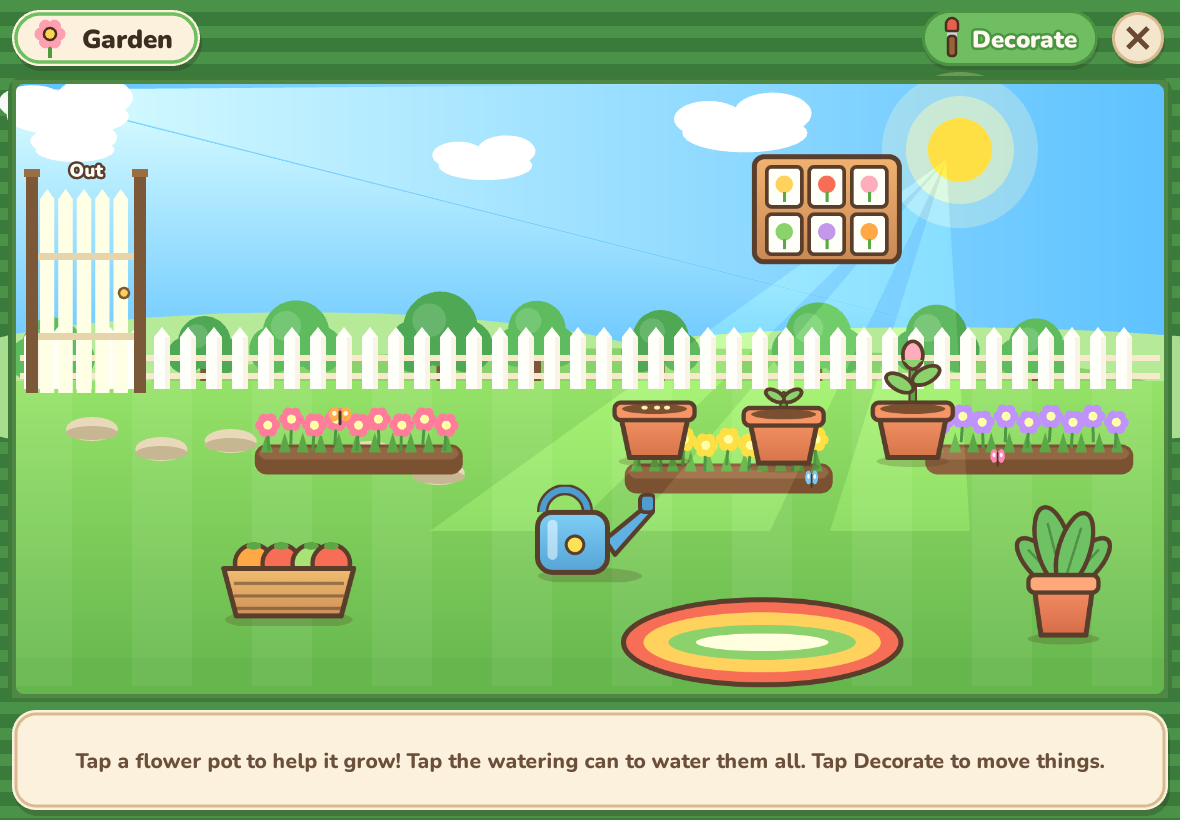
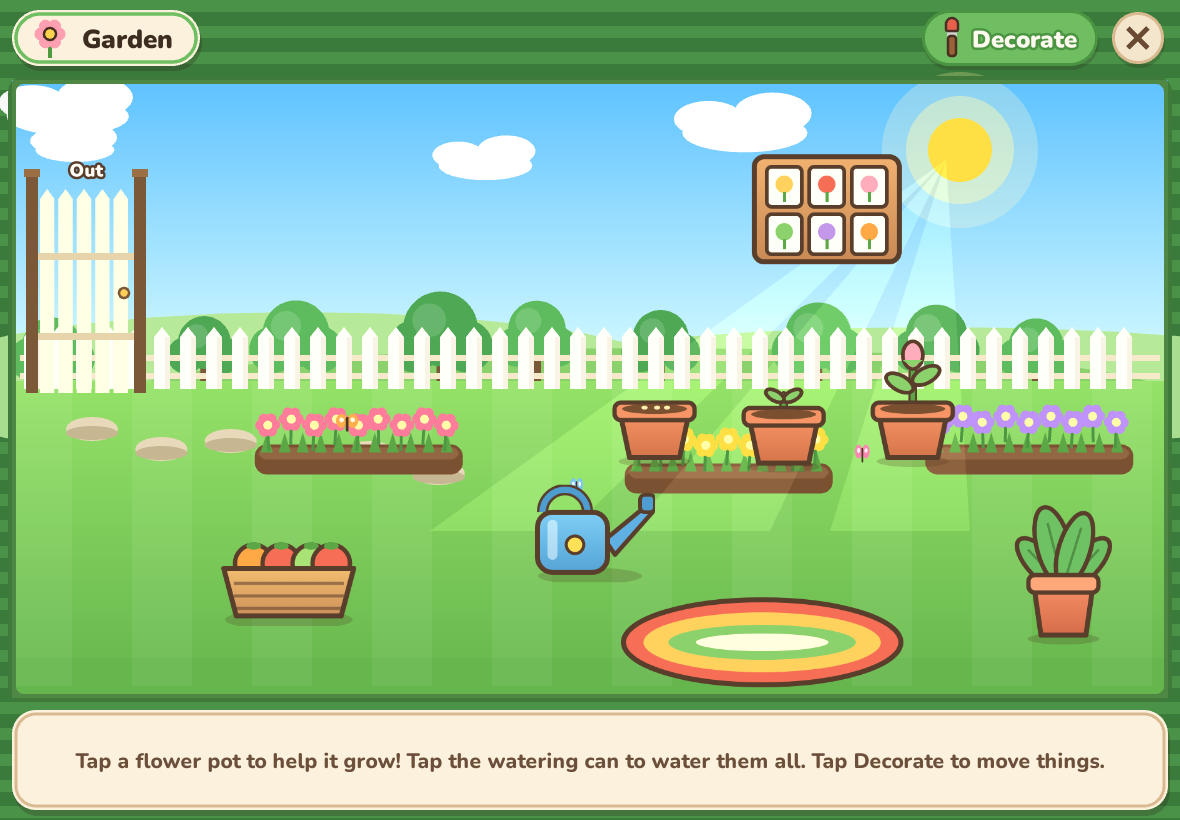
12.6: garden sky without gradient seam

diff --git a/src/interior/art.ts b/src/interior/art.ts
@@ -341,7 +341,7 @@ function garden(s: Phaser.Scene, r: Rect, ft: number, lampOn: boolean): RoomArt 
   const g = s.add.graphics().setDepth(0);
   const hz = ft - 8; // horizon (the fence line)
   // Sky.
-  g.fillGradientStyle(0x4fb4ff, 0x4fb4ff, 0xcdf0ff, 0xcdf0ff, 1); g.fillRoundedRect(r.x, r.y, r.w, hz - r.y + 4, { tl: rad, tr: rad, bl: 0, br: 0 });
+  g.fillGradientStyle(0x4fb4ff, 0x4fb4ff, 0xcdf0ff, 0xcdf0ff, 1); g.fillRect(r.x, r.y, r.w, hz - r.y + 4);
   // Sun with soft halo.
   const sx = r.x + r.w * 0.82, sy = r.y + 70;
   g.fillStyle(0xfff2a0, 0.25); g.fillCircle(sx, sy, 78); g.fillStyle(0xfff2a0, 0.4); g.fillCircle(sx, sy, 54); g.fillStyle(0xffd23a, 1); g.fillCircle(sx, sy, 32);
